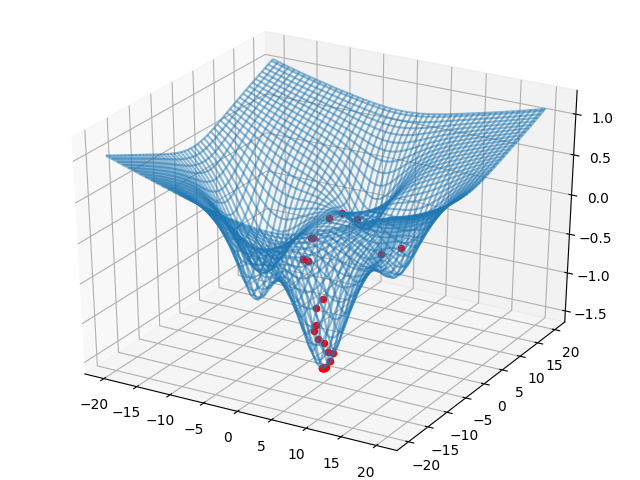
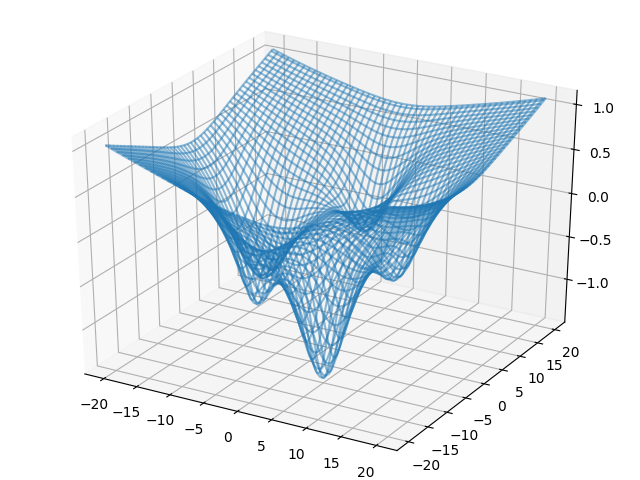
Modify to fast calc

diff --git a/Nelder_Mead.py b/Nelder_Mead.py
@@ -78,7 +78,12 @@ class Nelder_Mead:
                 #self.result[1:, :self.num_param] + delta * reduct
                 self.params = np.concatenate([self.result[:1, :-1],
                                               reduct], axis=0)
-                self.result = self.func(self.params)
+                #"""
+                tmp_result = self.func(self.params[1:])
+                self.result = np.concatenate([self.result[:1, :],
+                                              tmp_result], axis=0)
+                #"""
+                #self.result = self.func(self.params)
                 
         else:
             print("[Nelder_Mead]Error...")
@@ -112,14 +117,14 @@ def main(NUM_PARAM, seed, mean, sigma, simplex_num, itera):
     print("init_params:", a.params)
     for i in range(itera):
         a.update_opt(beta=BETA)
-        #"""
+        """
         ax.scatter(a.center[0],
                    a.center[1],
                    target_func(a.center[None])[...,0],
                    facecolors='red',
                    alpha=1)
         plt.pause(0.1)
-        #"""
+        """
     print("Best params:{}, value:{}".format(a.result[0, :-1],
                                             a.result[0, -1]))
     plt.savefig("Trajectory_of_center.png")
